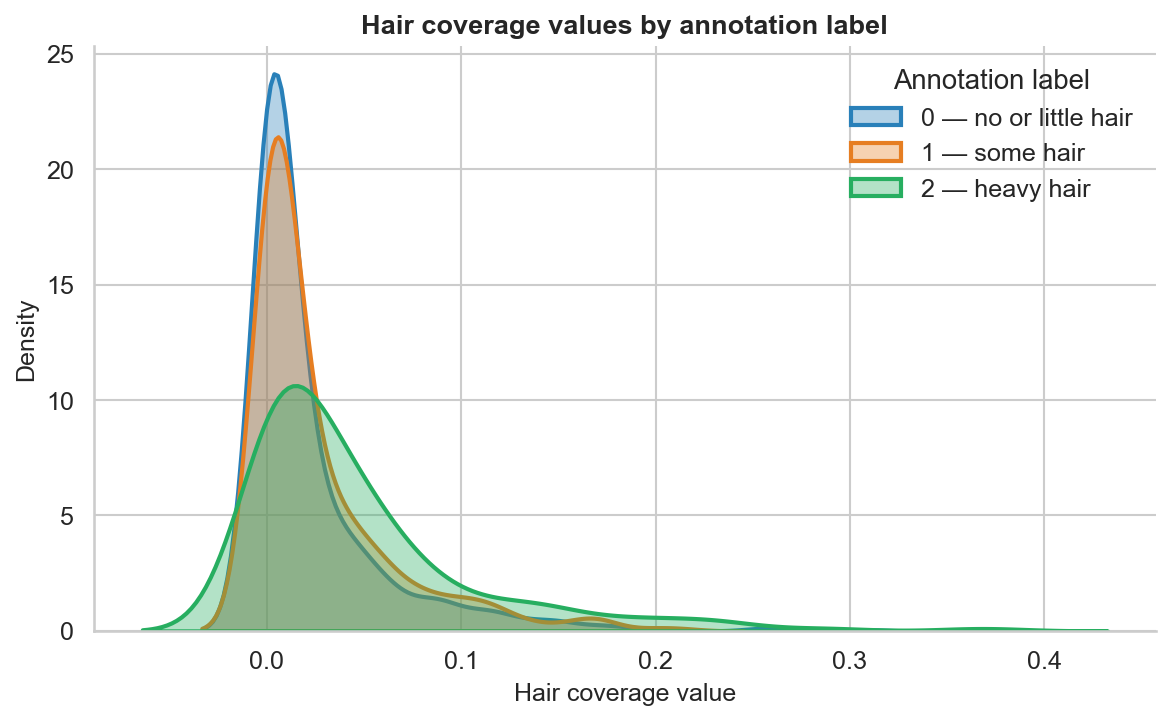
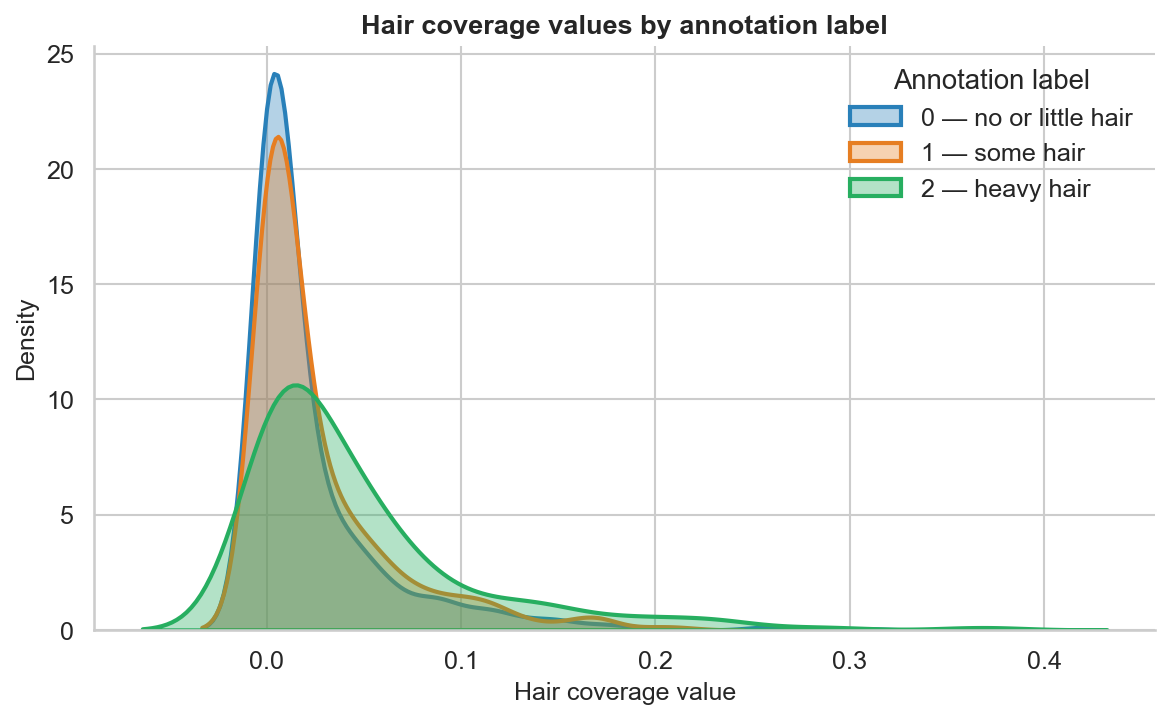
Updating generate_figures.py
Changing the code, so the figure is more suited for the report.

diff --git a/generate_figures.py b/generate_figures.py
@@ -47,7 +47,7 @@ features_to_plot = [
     ("blue_veil_score", "Blue-White Veil Score"),
 ]
 
-fig, axes = plt.subplots(1, 4, figsize=(18, 4))
+fig, axes = plt.subplots(4, 1, figsize=(6, 16))
 
 for ax, (feat, title) in zip(axes, features_to_plot):
     for label, name, color in [
@@ -63,7 +63,7 @@ for ax, (feat, title) in zip(axes, features_to_plot):
     ax.legend(frameon=False)
 
 fig.suptitle("Colour feature distributions by class", fontsize=14,
-             fontweight="bold", y=1.02)
+             fontweight="bold", y=0.995)
 plt.tight_layout()
 plt.savefig(FIGURES_PATH / "colour_distributions.png",
             dpi=150, bbox_inches="tight")
